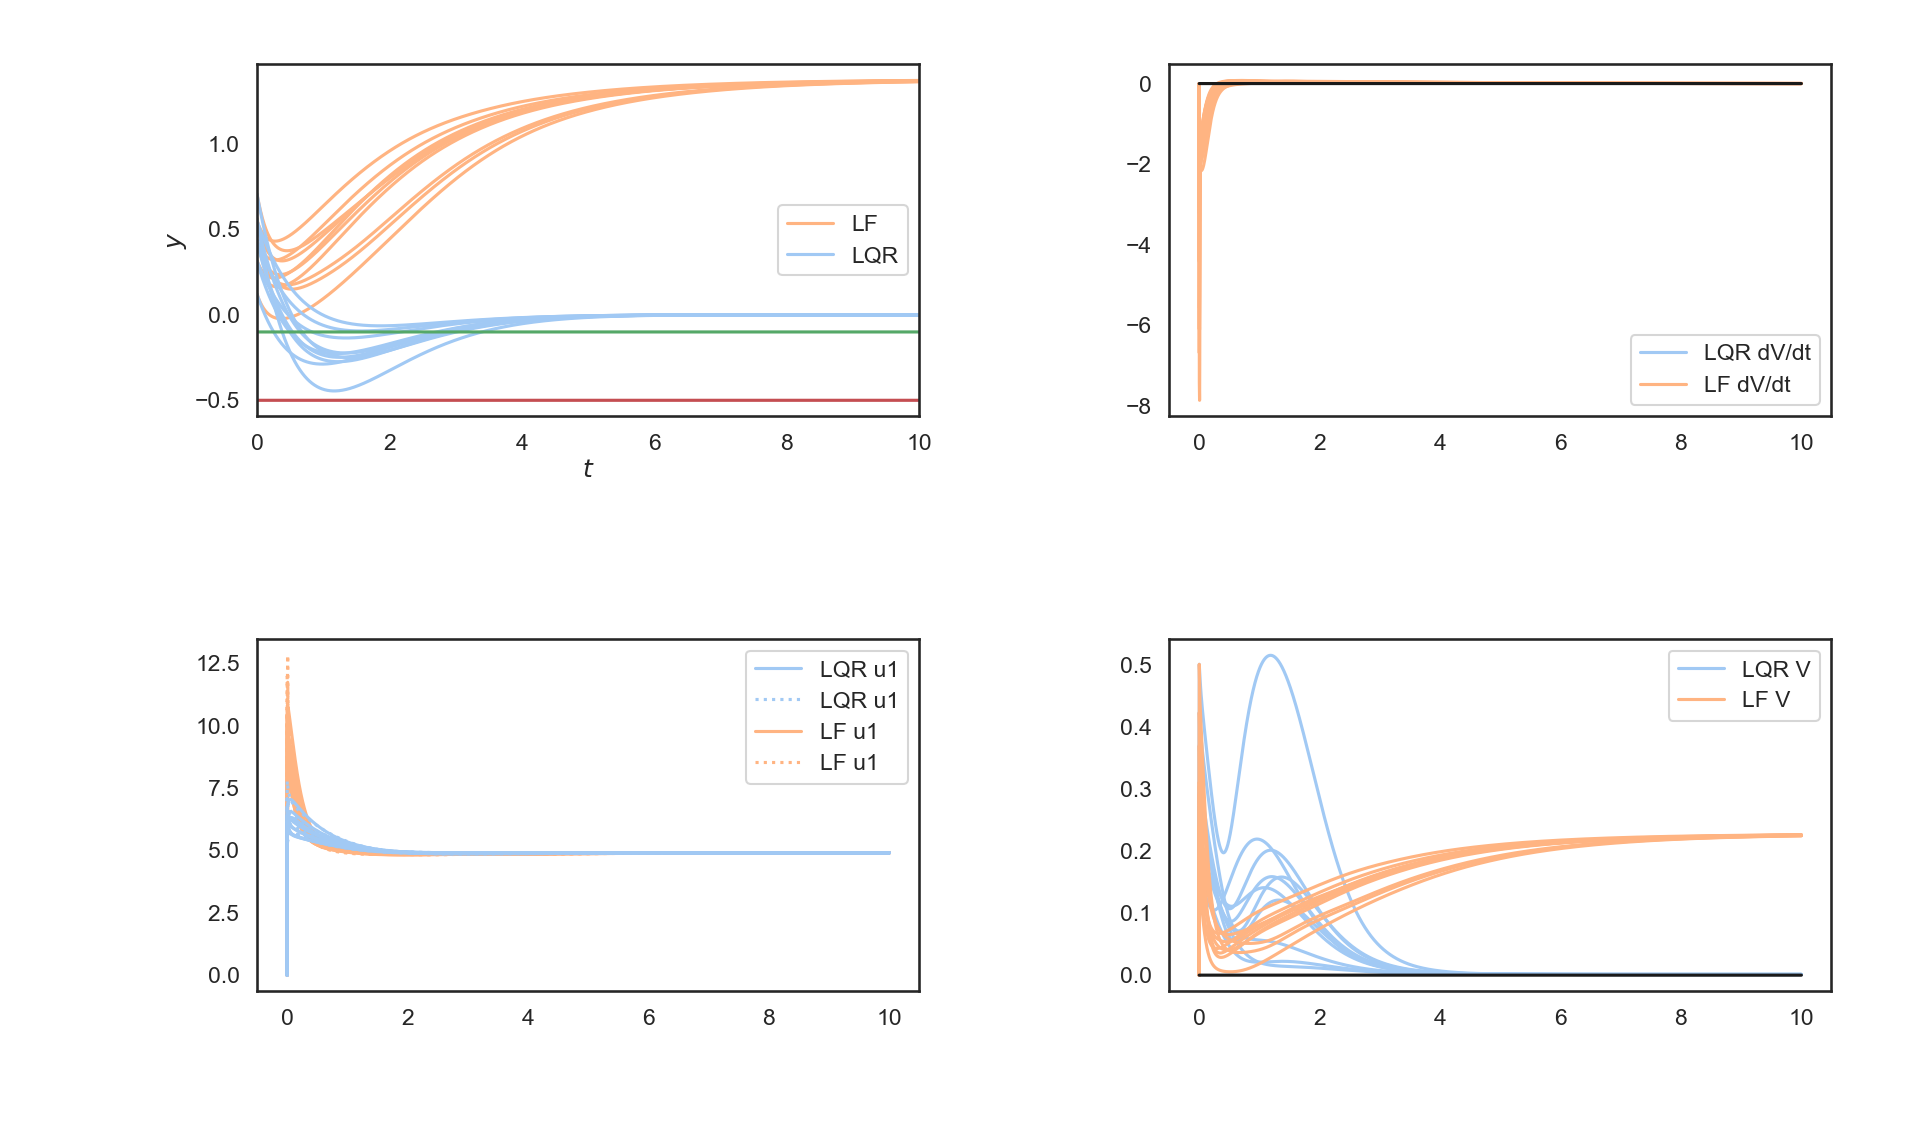
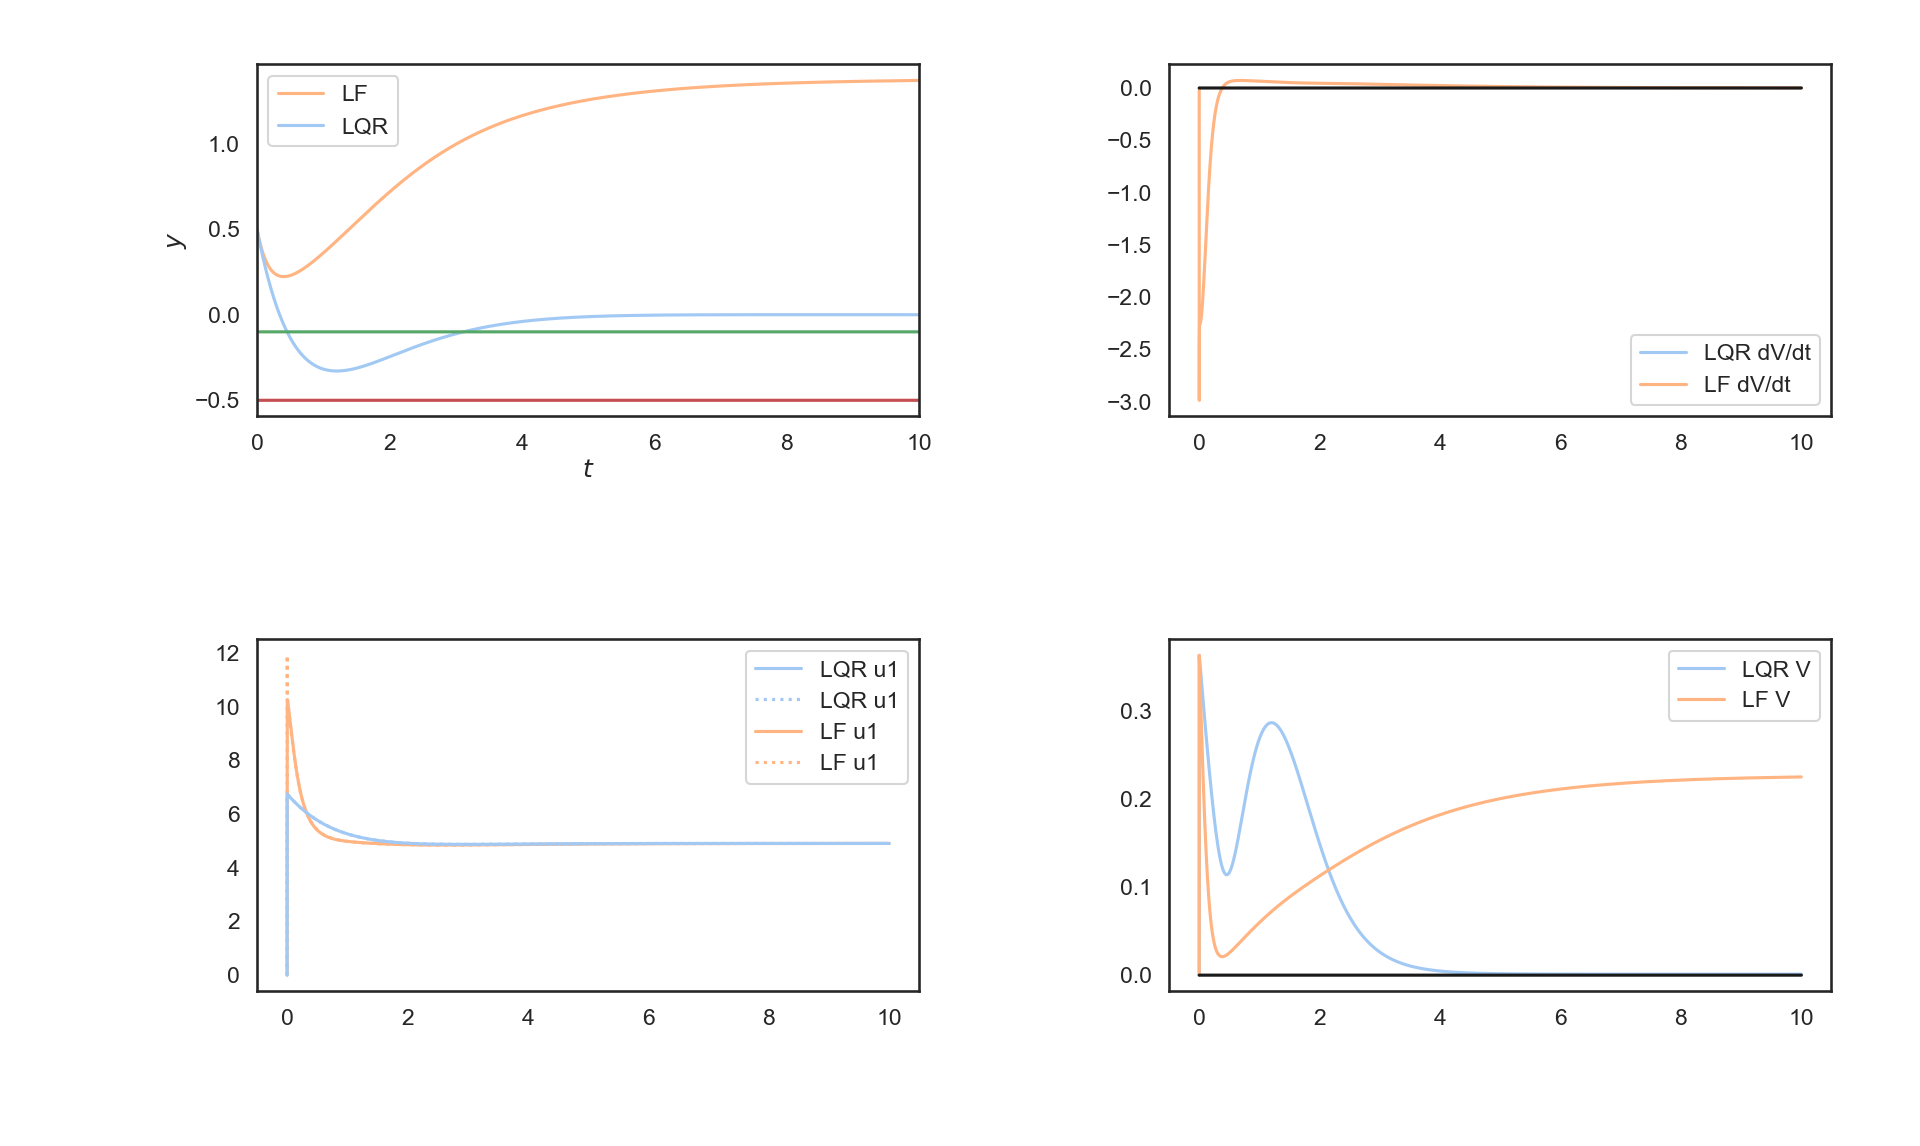
revert to most recent working version

diff --git a/neural_clf/plotting/pvtol_robust_clf_qp_V.py b/neural_clf/plotting/pvtol_robust_clf_qp_V.py
@@ -43,8 +43,8 @@ clf_net.load_state_dict(checkpoint['clf_net'])
 
 with torch.no_grad():
     n_grid = 50
-    x = torch.linspace(-0.1, 0.1, n_grid)
-    z = torch.linspace(-0.1, 0.1, n_grid)
+    x = torch.linspace(-4, 4, n_grid)
+    z = torch.linspace(-4, 4, n_grid)
     grid_x, grid_z = torch.meshgrid(x, z)
     residuals = torch.zeros(n_grid, n_grid)
     V_values = torch.zeros(n_grid, n_grid)
@@ -67,14 +67,14 @@ with torch.no_grad():
     contours = axs[0].contourf(x, z, V_values, cmap="magma", levels=20)
     plt.colorbar(contours, ax=axs[0], orientation="horizontal")
     contours = axs[0].contour(x, z, V_values, colors=["blue"], levels=[checkpoint["safe_level"]])
-    # axs[0].plot([x.min(), x.max()], [checkpoint["safe_z"], checkpoint["safe_z"]],
-    #             c="g", label="Safe")
-    # axs[0].plot([x.min(), x.max()], [checkpoint["unsafe_z"], checkpoint["unsafe_z"]],
-    #             c="r", label="Unsafe")
-    # safe_circle = plt.Circle((0.0, 0.0), 3.0, color='g', fill=False)
-    # unsafe_circle = plt.Circle((0.0, 0.0), 3.5, color='r', fill=False)
-    # axs[0].add_patch(safe_circle)
-    # axs[0].add_patch(unsafe_circle)
+    axs[0].plot([x.min(), x.max()], [checkpoint["safe_z"], checkpoint["safe_z"]],
+                c="g", label="Safe")
+    axs[0].plot([x.min(), x.max()], [checkpoint["unsafe_z"], checkpoint["unsafe_z"]],
+                c="r", label="Unsafe")
+    safe_circle = plt.Circle((0.0, 0.0), 3.0, color='g', fill=False)
+    unsafe_circle = plt.Circle((0.0, 0.0), 3.5, color='r', fill=False)
+    axs[0].add_patch(safe_circle)
+    axs[0].add_patch(unsafe_circle)
     axs[0].set_xlabel('$x$')
     axs[0].set_ylabel('$z$')
     axs[0].set_title('$V$')

diff --git a/neural_clf/plotting/pvtol_clf_simulation.py b/neural_clf/plotting/pvtol_clf_simulation.py
@@ -55,15 +55,14 @@ robust_clf_net.load_state_dict(checkpoint['clf_net'])
 with torch.no_grad():
     N_sim = 1
     x_sim_start = torch.zeros(N_sim, n_dims)
-    x_sim_start[:, 0] = torch.Tensor(N_sim).uniform_(-1, 1)
-    x_sim_start[:, 1] = torch.Tensor(N_sim).uniform_(0.1, 0.75)
-    x_sim_start[:, 4] = torch.Tensor(N_sim).uniform_(-2.5, -1)
+    x_sim_start[:, 1] = 0.5
+    x_sim_start[:, 4] = -2.0
 
     # Get a random distribution of masses and inertias
     ms = torch.Tensor(N_sim, 1).uniform_(low_m, low_m)
     inertias = torch.Tensor(N_sim, 1).uniform_(low_I, low_I)
 
-    t_sim = 5
+    t_sim = 10
     delta_t = 0.001
     num_timesteps = int(t_sim // delta_t)
 
@@ -83,7 +82,7 @@ with torch.no_grad():
 
             u_sim_rclfqp[tstep, :, :] = u
             V_sim_rclfqp[tstep, :, 0] = V
-            Vdot_sim_rclfqp[tstep, :, 0] = Vdot.squeeze()
+            Vdot_sim_rclfqp[tstep, :, 0] = Vdot
             # Get the dynamics
             for i in range(N_sim):
                 f_val, g_val = control_affine_dynamics(x_current[i, :].unsqueeze(0),

diff --git a/neural_clf/controllers/clf_qp_net.py b/neural_clf/controllers/clf_qp_net.py
@@ -314,7 +314,7 @@ def controller_loss(x, net, print_loss=False):
     u_learned, _, _, _ = net(x)
 
     # Compute loss based on difference from nominal controller (e.g. LQR).
-    controller_squared_error = 1e-6 * ((u_nominal - u_learned)**2).sum(dim=-1)
+    controller_squared_error = 1e-4 * ((u_nominal - u_learned)**2).sum(dim=-1)
     loss = controller_squared_error.mean()
 
     if print_loss:
